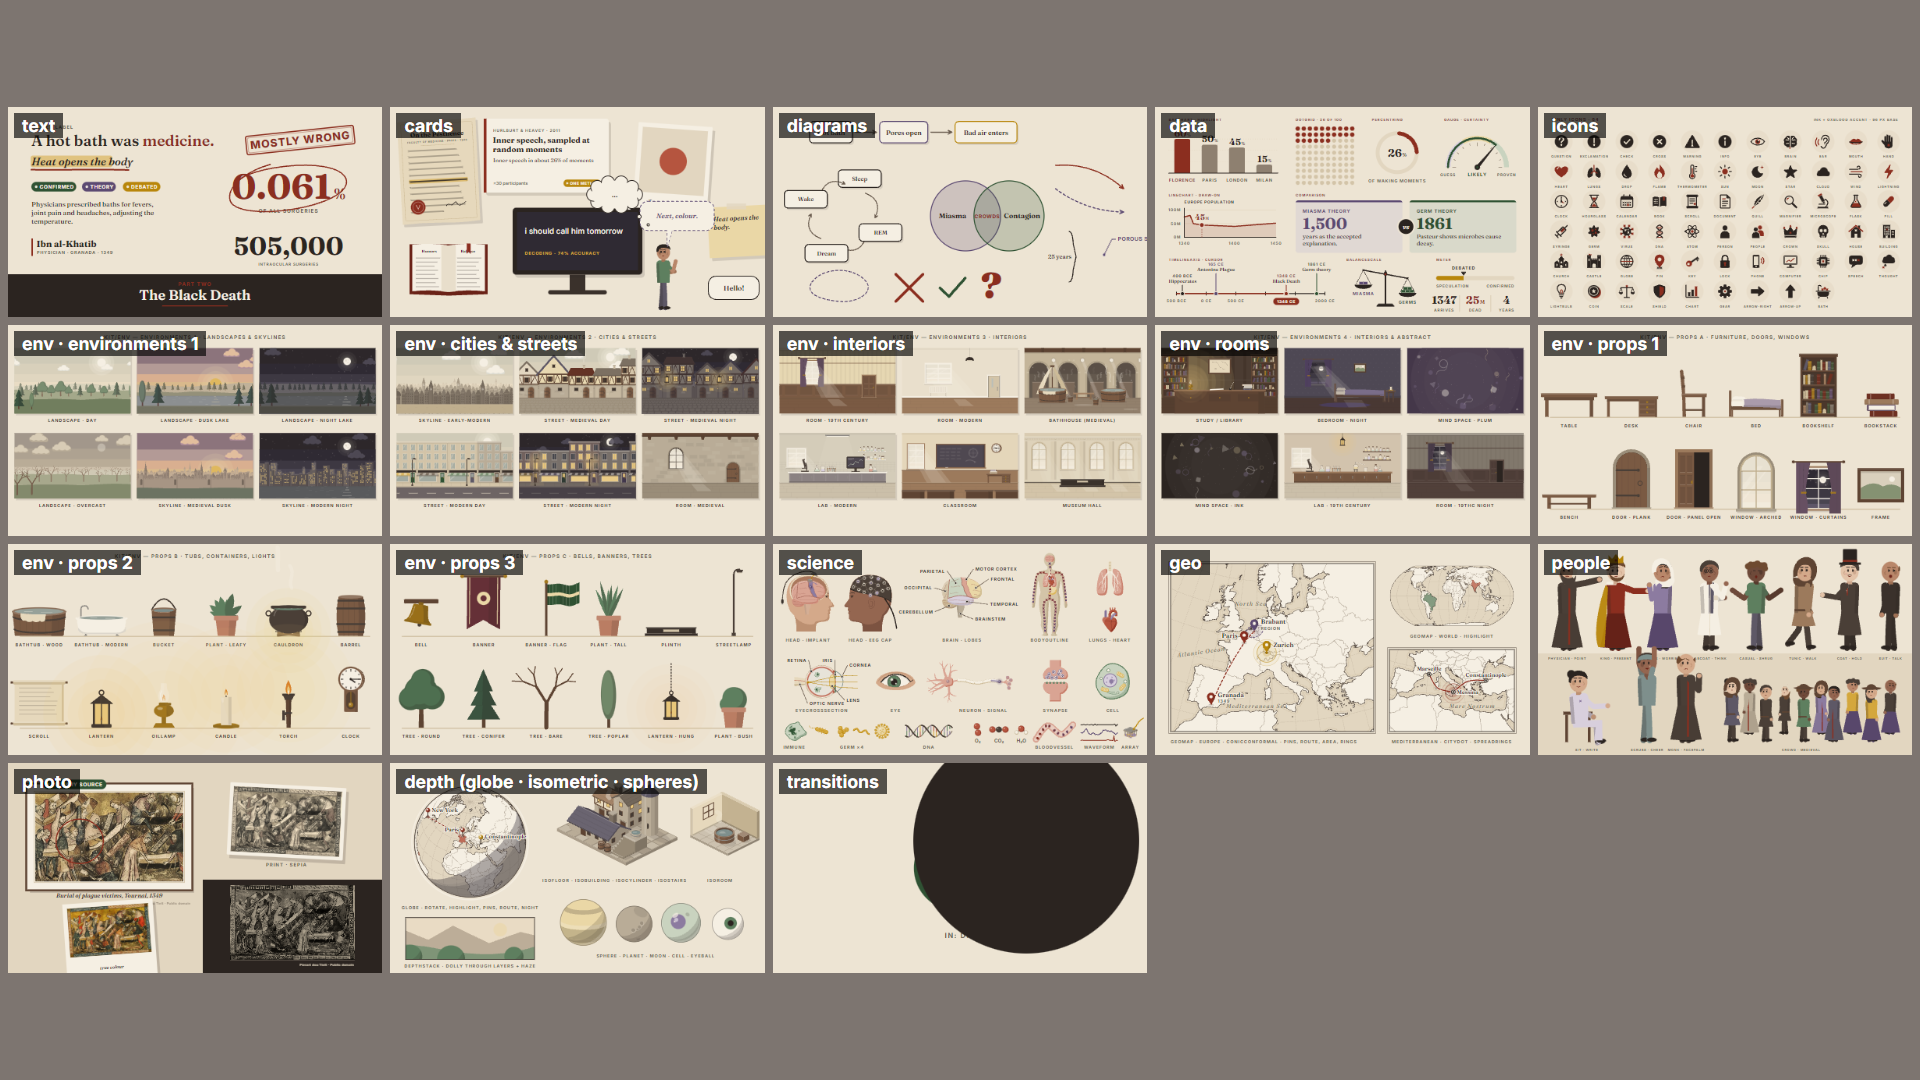
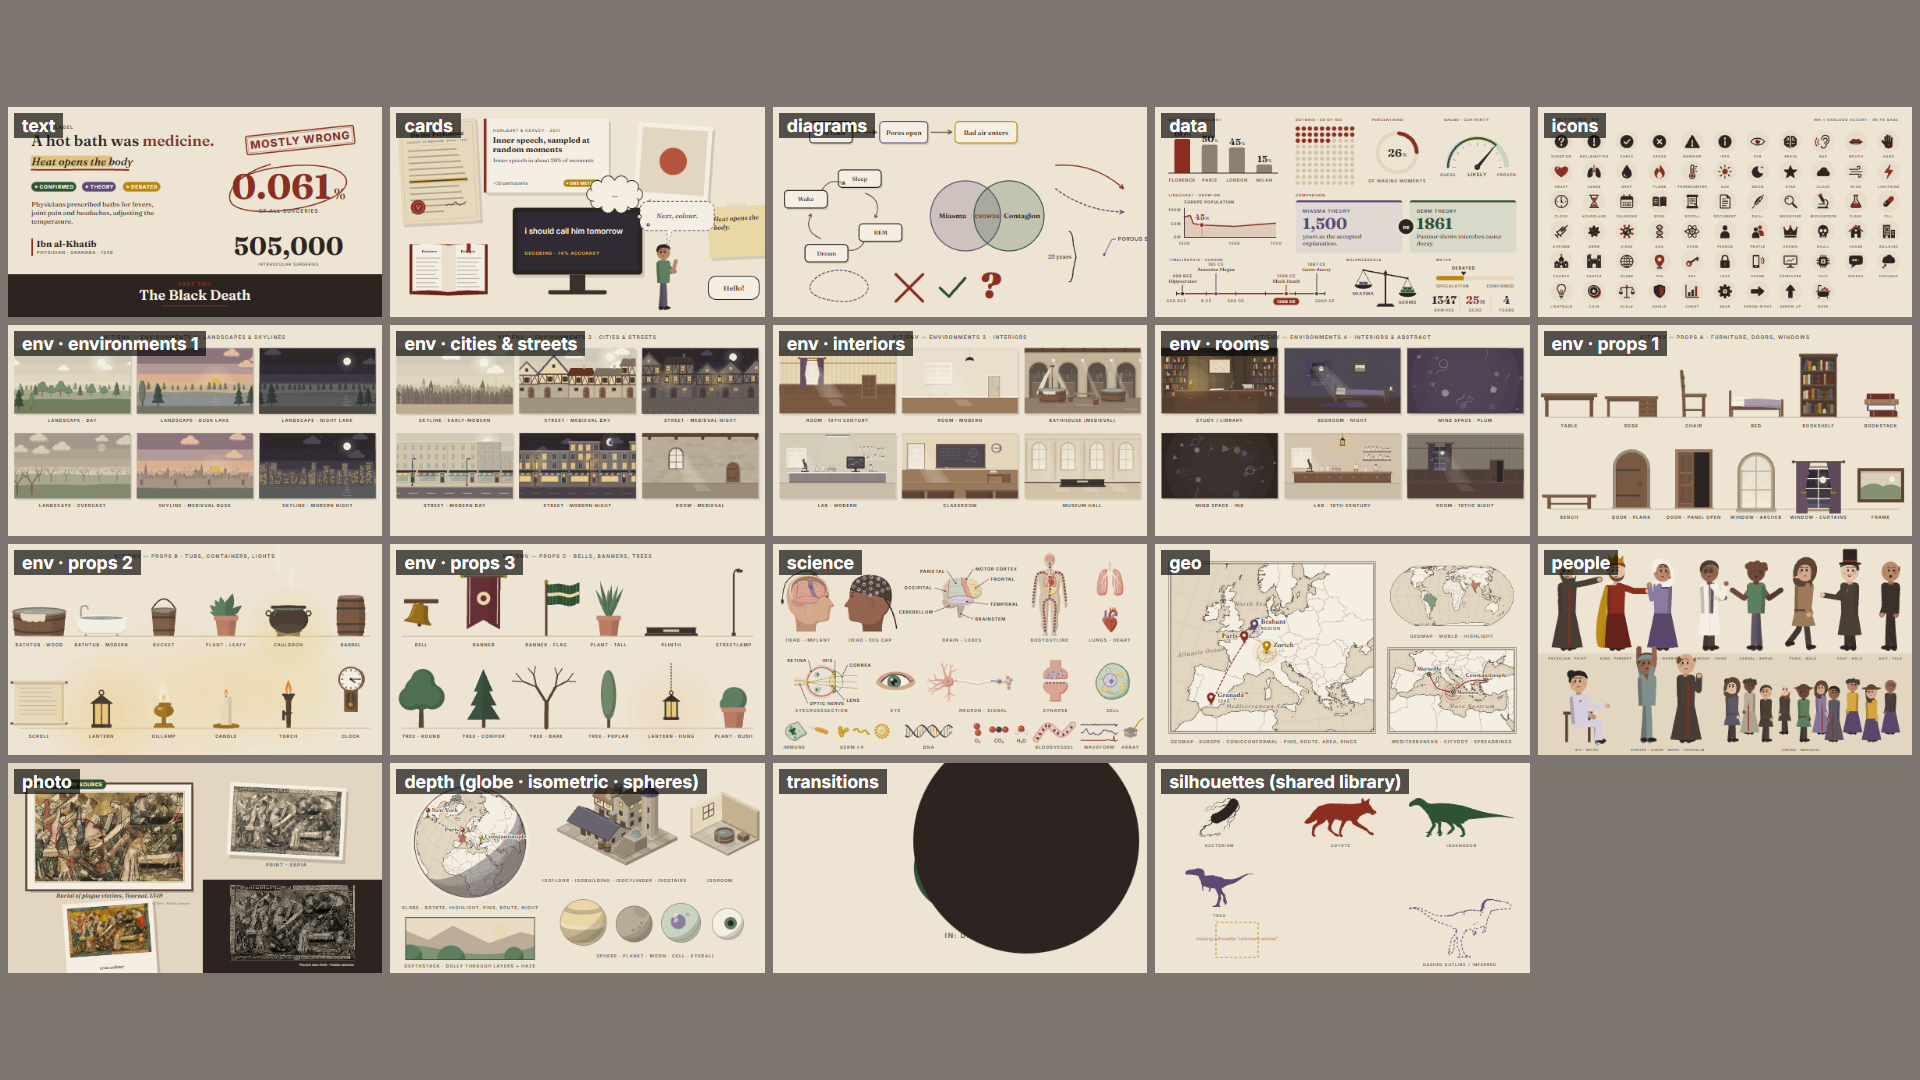
silhouette library (PhyloPic, free licences) + Silhouette component

Changed region(s): [[0.5938, 0.7028, 0.8125, 0.9167]]

diff --git a/src/kit/silhouette.tsx b/src/kit/silhouette.tsx
@@ -1,0 +1,72 @@
+import React from 'react';
+import {C} from './theme';
+import {clamp01, ease} from './anim';
+import {SILHOUETTES} from '../assets/silhouettes';
+
+/**
+ * Recolourable organism silhouette from the shared library (tools/silhouette.mjs — free PhyloPic shapes).
+ * <Silhouette name="trex" x={960} y={900} h={420} color={C.ink} p={ramp(t, a, a + 0.8)} reveal="wipe" />
+ * origin = bottom-centre (anchor "bottom", default) or centre (anchor "center"). h = height in px.
+ * outline: 'dashed' = Binly grammar for inferred / reconstructed / absent (fill "none" + dashed stroke).
+ * p (0→1) reveal: 'fade' | 'wipe' (left→right) | 'rise' (from below) | 'pop' (scale settle). flip = face the other way.
+ * Unknown name → a dashed placeholder box (visible in sheets) — fetch it with tools/silhouette.mjs.
+ */
+export const Silhouette: React.FC<{
+  name: string;
+  x: number;
+  y: number;
+  h: number;
+  color?: string;
+  fill?: boolean;
+  outline?: 'none' | 'solid' | 'dashed';
+  outlineColor?: string;
+  strokeWidth?: number;
+  p?: number;
+  reveal?: 'fade' | 'wipe' | 'rise' | 'pop';
+  flip?: boolean;
+  rot?: number;
+  o?: number;
+  anchor?: 'bottom' | 'center';
+}> = ({name, x, y, h, color = C.ink, fill = true, outline = 'none', outlineColor, strokeWidth = 4, p = 1, reveal = 'fade', flip = false, rot = 0, o = 1, anchor = 'bottom'}) => {
+  if (p <= 0) return null;
+  const s = SILHOUETTES[name];
+  const k = clamp01(p);
+  if (!s) {
+    return (
+      <g opacity={o}>
+        <rect x={x - h * 0.6} y={anchor === 'bottom' ? y - h : y - h / 2} width={h * 1.2} height={h} fill="none" stroke={C.caution} strokeWidth={4} strokeDasharray="14 10" />
+        <text x={x} y={anchor === 'bottom' ? y - h / 2 : y} textAnchor="middle" fontSize={24} fontFamily="Inter" fill={C.caution}>
+          missing silhouette "{name}"
+        </text>
+      </g>
+    );
+  }
+  const [vw, vh] = s.viewBox;
+  const sc = h / vh;
+  const w = vw * sc;
+  const top = anchor === 'bottom' ? y - h : y - h / 2;
+  const left = x - w / 2;
+  const id = `sil-${name}-${Math.round(x)}-${Math.round(y)}`;
+  const rise = reveal === 'rise' ? (1 - ease.outQuint(k)) * h * 0.25 : 0;
+  const pop = reveal === 'pop' ? 0.9 + 0.1 * ease.outBack(k) : 1;
+  const alpha = reveal === 'fade' ? ease.out(k) : reveal === 'wipe' ? 1 : clamp01(k * 2);
+  const stroke = outline === 'none' ? undefined : (outlineColor ?? color);
+  const dash = outline === 'dashed' ? `${strokeWidth * 3} ${strokeWidth * 2.2}` : undefined;
+  return (
+    <g opacity={o * alpha} transform={`rotate(${rot} ${x} ${anchor === 'bottom' ? y - h / 2 : y}) translate(0 ${rise})`}>
+      {reveal === 'wipe' && (
+        <clipPath id={id}>
+          <rect x={left - 4} y={top - 4} width={(w + 8) * ease.inOut(k)} height={h + 8} />
+        </clipPath>
+      )}
+      <g clipPath={reveal === 'wipe' ? `url(#${id})` : undefined} transform={`translate(${x} ${top + h / 2}) scale(${pop}) translate(${-x} ${-(top + h / 2)})`}>
+        <g transform={`translate(${flip ? left + w : left} ${top}) scale(${flip ? -sc : sc} ${sc})`}>
+          <g fill={fill ? color : 'none'} stroke={stroke} strokeWidth={stroke ? strokeWidth : undefined} strokeDasharray={dash} strokeLinejoin="round" dangerouslySetInnerHTML={{__html: s.markup}} />
+        </g>
+      </g>
+    </g>
+  );
+};
+
+/** Names currently in the shared library (for galleries / validation). */
+export const SILHOUETTE_NAMES = Object.keys(SILHOUETTES);

diff --git a/src/gallery/pages/silhouettes.tsx b/src/gallery/pages/silhouettes.tsx
@@ -1,0 +1,31 @@
+import React from 'react';
+import {Stage} from '../../kit/stage';
+import {C} from '../../kit/theme';
+import {ramp} from '../../kit/anim';
+import {Kicker} from '../../kit/text';
+import {Silhouette, SILHOUETTE_NAMES} from '../../kit/silhouette';
+
+// Shared silhouette library: every entry, plus treatments (fill, dashed "inferred" outline, wipe reveal, flip).
+export const Silhouettes: React.FC<{t: number}> = ({t}) => {
+  const names = SILHOUETTE_NAMES;
+  const colors = [C.ink, C.oxblood, C.evidence, C.theory, C.caution, C.inkLift];
+  return (
+    <Stage>
+      {names.map((n, i) => {
+        const col = i % 3;
+        const row = Math.floor(i / 3);
+        const x = 330 + col * 620;
+        const y = 380 + row * 360;
+        return (
+          <g key={n}>
+            <Silhouette name={n} x={x} y={y} h={200} color={colors[i % colors.length]} p={ramp(t, 0.2 + i * 0.2, 1.2 + i * 0.2)} reveal="wipe" />
+            <Kicker x={x} y={y + 50} text={n} size={20} />
+          </g>
+        );
+      })}
+      <Silhouette name="trex" x={1560} y={1000} h={300} color={C.theory} fill={false} outline="dashed" strokeWidth={4} p={ramp(t, 1.5, 2.5)} flip />
+      <Kicker x={1560} y={1045} text="dashed outline = inferred" size={20} color={C.theory} />
+      <Silhouette name="unknown-animal" x={420} y={1000} h={180} p={1} />
+    </Stage>
+  );
+};

diff --git a/src/assets/silhouettes/index.ts b/src/assets/silhouettes/index.ts
@@ -1,0 +1,13 @@
+// GENERATED by tools/silhouette.mjs — the shared silhouette library (reused by every video).
+import _bacterium from './bacterium.json';
+import _coyote from './coyote.json';
+import _iguanodon from './iguanodon.json';
+import _trex from './trex.json';
+
+export type SilhouetteData = {name: string; viewBox: [number, number]; markup: string; credit: {author: string; licence: string; source: string}; title: string};
+export const SILHOUETTES: Record<string, SilhouetteData> = {
+  "bacterium": _bacterium as SilhouetteData,
+  "coyote": _coyote as SilhouetteData,
+  "iguanodon": _iguanodon as SilhouetteData,
+  "trex": _trex as SilhouetteData,
+};

diff --git a/src/gallery/index.ts b/src/gallery/index.ts
@@ -14,6 +14,8 @@ import {Depth} from './pages/depth';
 import {Templates, Templates2} from './pages/templates';
 import {Archival, Archival2} from './pages/archival';
 
+import {Silhouettes} from './pages/silhouettes';
+
 // Kit showcase pages. Render a page: node tools/still.mjs Gallery --props '{"page":"icons"}' --at 2
 export const GALLERY: Record<string, React.FC<{t: number}>> = {
   text: Text,
@@ -32,4 +34,5 @@ export const GALLERY: Record<string, React.FC<{t: number}>> = {
   templates2: Templates2,
   archival: Archival,
   archival2: Archival2,
+  silhouettes: Silhouettes,
 };

diff --git a/docs/KIT.md b/docs/KIT.md
@@ -893,6 +893,20 @@ kind: 'speech' (syllable bursts, ink) | 'eeg' (plum) | 'ecg' (oxblood heartbeat)
 
 ---
 
+## Silhouettes (`kit/silhouette` + `tools/silhouette.mjs`) — shared library of free organism shapes
+Animals, dinosaurs, humans, plants, microbes as clean single-colour vector shapes (PhyloPic, free licences only, credits
+automatic). The library in `src/assets/silhouettes/` is SHARED by all videos — check it first, add to it when needed.
+- `node tools/silhouette.mjs list` (what exists) · `search "canis lupus"` (→ `.cache/silhouettes/search.png`) · `get <#> --as wolf`
+  Search works best with scientific names; check the result's title — PhyloPic may return a close relative.
+- `Silhouette {name, x, y, h, color=ink, fill=true, outline:'none'|'solid'|'dashed', outlineColor, strokeWidth=4, p, reveal:'fade'|'wipe'|'rise'|'pop', flip, rot, o, anchor:'bottom'|'center'}`
+  origin = bottom-centre (default). `outline="dashed" fill={false}` = Binly grammar for inferred / reconstructed / absent.
+  `<Silhouette name="trex" x={1200} y={900} h={420} color={C.oxblood} reveal="wipe" p={ramp(t, T.rex, T.rex + 1)} />`
+- `SILHOUETTE_NAMES` — names in the library. Unknown name → visible dashed "missing silhouette" box (fetch it).
+Combine with kit parts: walk a silhouette across a Landscape (move x over time), scale comparisons with a Person,
+dashed flesh over a skeleton, a Crowd of the same animal (several Silhouettes with seeded offsets).
+
+---
+
 # templates — `src/kit/templates.tsx` (shot templates)
 
 **Use templates for standard beats; hand-craft the hook, reveals and signature moments.**

diff --git a/CLAUDE.md b/CLAUDE.md
@@ -14,7 +14,7 @@ Subagents: `binly-builder` (builds a chapter) · `binly-scout` (cheap chores).
 
 ## Reuse before you build (saves tokens & context, keeps the look consistent)
 The Studio learns from every video through SHORT summaries — read those, not old video folders: `docs/LESSONS.md` (what
-worked / what to avoid), `docs/ASSETS.md` (pieces built for past videos), `docs/KIT-INDEX.md` (the kit), `docs/catalog/*.png`.
+worked / what to avoid), `docs/ASSETS.md` (pieces built for past videos), `docs/KIT-INDEX.md` (the kit), `docs/catalog/*.png`, `node tools/silhouette.mjs list`.
 Use what exists first (templates, kit parts, past assets); build new only what this story truly needs, then register it
 so the next video can reuse it. Writing and fixing code is the expensive part — every reuse is tokens saved.
 
@@ -43,6 +43,7 @@ final render only in the cloud (this PC is too slow; local = stills/sheets only)
 | `node tools/cloud.mjs analyze <slug>` · `push` · `runs` | cloud timing · commit+push · recent runs |
 | `node tools/preview.mjs` | live preview (Remotion Studio, http://localhost:3000) |
 | `node tools/photo.mjs search "q"` · `get <#> --as name` | free archival images (Wikimedia) |
+| `node tools/silhouette.mjs list` · `search "name"` · `get <#> --as n` | shared animal/organism silhouettes (PhyloPic) |
 | `node tools/upload-pack.mjs` | YouTube description + captions.srt |
 | `node tools/compile-shots.mjs [Cxx]` | shot lists (videos/<slug>/shots/*.json) → chapter code |
 | `node tools/kit-test.mjs` | render-test the whole kit + refresh docs/catalog/*.png |

diff --git a/videos/test-dinos/youtube/description.md b/videos/test-dinos/youtube/description.md
@@ -1,7 +1,13 @@
 <!-- Draft — edit freely before pasting into YouTube. Title: Test: No photograph of a living T. rex -->
 every museum T. rex is a confident picture built on missing evidence — and we've been wrong before.
 
-Image credits (via Wikimedia Commons):
+Image credits (Wikimedia Commons / PhyloPic):
 • Doutielt3.jpg — Pierart dou Tielt (fl. 1340-1360) — Public domain — https://commons.wikimedia.org/wiki/File:Doutielt3.jpg
+• Trota of Sallerno manuscript.jpg — Richard of Salerno — Public domain — https://commons.wikimedia.org/wiki/File:Trota_of_Sallerno_manuscript.jpg
+• Badehaus Valerius Maximus.jpg — The original uploader was Dinah at German Wikipedia. — Public domain — https://commons.wikimedia.org/wiki/File:Badehaus_Valerius_Maximus.jpg
+• Charles Marville, La Bièvre, ca. 1865.jpg — Charles Marville — Public domain — https://commons.wikimedia.org/wiki/File:Charles_Marville,_La_Bi%C3%A8vre,_ca._1865.jpg
+• Tyrannosaurus silhouette — Aiden Gauthier — CC BY 4.0 — https://www.phylopic.org/images/832a47bd-0cd4-4b0e-af7b-db9d7ff81867
+• Iguanodon bernissartensis silhouette — Matthew Dempsey — CC BY 4.0 — https://www.phylopic.org/images/aa1fb8ea-9cfe-429d-9b22-942a224cd74d
+• Escherichia coli silhouette — Arcadia Science — Public domain (CC0/PDM) — https://www.phylopic.org/images/27d35deb-98bb-4833-8121-8750f35cd09b
 
 Music: original score composed for this video.

diff --git a/.claude/agents/binly-builder.md b/.claude/agents/binly-builder.md
@@ -299,6 +299,7 @@ full ffmpeg, …) → ask the user first. Never use network resources at render 
 Kit: stage/camera/shots, text, cards, diagrams, data, icons (64), env, people, science, geo, depth (globe/isometric/spheres),
 photo + archival image templates, 12+ shot templates, fx, music/SFX engine (code-generated, copyright-free).
 Images: `tools/photo.mjs` (Wikimedia Commons, free licences only, credits automatic).
+Silhouettes: `tools/silhouette.mjs` (PhyloPic organism shapes → shared library `src/assets/silhouettes`, recolourable via `Silhouette`).
 
 ## Optional, outside the Studio
 - **Google Flow** via the `flow` MCP server (spare Google account) — AI-generated images/clips. Off-style for the main video;
@@ -349,6 +350,10 @@ Pt, smoothPath, Curve, makeCurve, BrainRegion, BRAIN_REGIONS, Brain, Electrode, 
 ## docs/kit/geo.md — Flat maps (GeoMap), pins, routes, spread rings
 modules: kit/geo
 LonLat, BBox, ProjName, RegionName, Region, REGIONS, makeProjection, Proj, MapHighlight, MapLabelSpec, GeoMap, MapLabel, MapPin, CityDot, AreaMark, Route, SpreadRings
+
+## docs/kit/silhouette.md — Shared library of free organism silhouettes (animals, dinosaurs, microbes…) — recolourable, dashed = inferred
+modules: kit/silhouette
+Silhouette, SILHOUETTE_NAMES
 
 ## docs/kit/depth.md — "Looks 3D" drawn flat: Globe, isometric buildings/rooms/props, shaded spheres, DepthStack
 modules: kit/depth

diff --git a/docs/kit/silhouette.md b/docs/kit/silhouette.md
@@ -1,0 +1,11 @@
+## Silhouettes (`kit/silhouette` + `tools/silhouette.mjs`) — shared library of free organism shapes
+Animals, dinosaurs, humans, plants, microbes as clean single-colour vector shapes (PhyloPic, free licences only, credits
+automatic). The library in `src/assets/silhouettes/` is SHARED by all videos — check it first, add to it when needed.
+- `node tools/silhouette.mjs list` (what exists) · `search "canis lupus"` (→ `.cache/silhouettes/search.png`) · `get <#> --as wolf`
+  Search works best with scientific names; check the result's title — PhyloPic may return a close relative.
+- `Silhouette {name, x, y, h, color=ink, fill=true, outline:'none'|'solid'|'dashed', outlineColor, strokeWidth=4, p, reveal:'fade'|'wipe'|'rise'|'pop', flip, rot, o, anchor:'bottom'|'center'}`
+  origin = bottom-centre (default). `outline="dashed" fill={false}` = Binly grammar for inferred / reconstructed / absent.
+  `<Silhouette name="trex" x={1200} y={900} h={420} color={C.oxblood} reveal="wipe" p={ramp(t, T.rex, T.rex + 1)} />`
+- `SILHOUETTE_NAMES` — names in the library. Unknown name → visible dashed "missing silhouette" box (fetch it).
+Combine with kit parts: walk a silhouette across a Landscape (move x over time), scale comparisons with a Person,
+dashed flesh over a skeleton, a Crowd of the same animal (several Silhouettes with seeded offsets).

diff --git a/.claude/agents/binly-scout.md b/.claude/agents/binly-scout.md
@@ -14,6 +14,8 @@ Typical chores:
   English, original-language names, artist/manuscript names). Look at `.cache/photos/search.png`. Return a shortlist:
   for each good candidate → `query`, result number, title, licence, size, one line on what it shows and why it fits.
   Only fetch (`get … --as name`) if the task tells you to. Prefer images ≥ 1600 px and clearly relevant ones.
+- **Silhouette research**: `node tools/silhouette.mjs list` first (reuse!), then `search "<scientific or common name>"`;
+  check the result titles (PhyloPic may return a relative) and report the best match numbers.
 - **Timing**: `node tools/transcript.mjs --from a --to b` / `node tools/cue.mjs "phrase" …` → return the requested
   sentence/word times as a compact list.
 - **Housekeeping**: `node tools/status.mjs`, `node tools/check.mjs`, `node tools/upload-pack.mjs` → report results.

diff --git a/docs/KIT-INDEX.md b/docs/KIT-INDEX.md
@@ -42,6 +42,10 @@ Pt, smoothPath, Curve, makeCurve, BrainRegion, BRAIN_REGIONS, Brain, Electrode, 
 modules: kit/geo
 LonLat, BBox, ProjName, RegionName, Region, REGIONS, makeProjection, Proj, MapHighlight, MapLabelSpec, GeoMap, MapLabel, MapPin, CityDot, AreaMark, Route, SpreadRings
 
+## docs/kit/silhouette.md — Shared library of free organism silhouettes (animals, dinosaurs, microbes…) — recolourable, dashed = inferred
+modules: kit/silhouette
+Silhouette, SILHOUETTE_NAMES
+
 ## docs/kit/depth.md — "Looks 3D" drawn flat: Globe, isometric buildings/rooms/props, shaded spheres, DepthStack
 modules: kit/depth
 mixTone, crescentPath, LonLat, globeProject, globeFacing, GlobeHighlight, GlobePin, GlobeRoute, Globe, iso, IsoColors, isoShades, IsoBox, IsoTile, IsoFloor, IsoStairs, isoChimneyTop, IsoBuilding, IsoRoom, IsoCylinder, Sphere, DepthCam, depthAt, DepthStack

diff --git a/docs/TOOLS.md b/docs/TOOLS.md
@@ -35,6 +35,7 @@ full ffmpeg, …) → ask the user first. Never use network resources at render 
 Kit: stage/camera/shots, text, cards, diagrams, data, icons (64), env, people, science, geo, depth (globe/isometric/spheres),
 photo + archival image templates, 12+ shot templates, fx, music/SFX engine (code-generated, copyright-free).
 Images: `tools/photo.mjs` (Wikimedia Commons, free licences only, credits automatic).
+Silhouettes: `tools/silhouette.mjs` (PhyloPic organism shapes → shared library `src/assets/silhouettes`, recolourable via `Silhouette`).
 
 ## Optional, outside the Studio
 - **Google Flow** via the `flow` MCP server (spare Google account) — AI-generated images/clips. Off-style for the main video;
